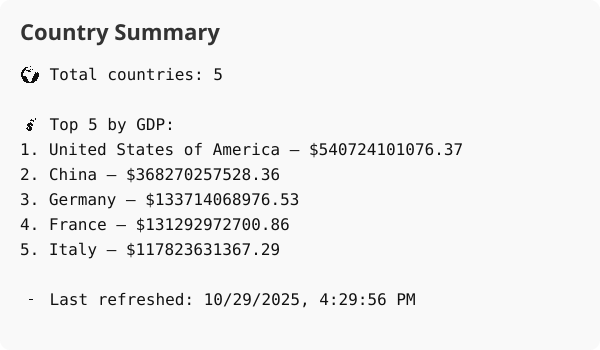
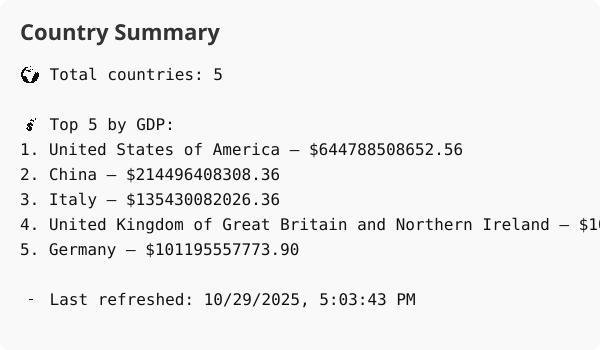
fix : batch update on /countries/refresh

diff --git a/src/db/dbQuery.ts b/src/db/dbQuery.ts
@@ -3,12 +3,20 @@ import db from ".";
 import { Country, CountryMapData, getCountriesQueryParams } from "../types";
 import generateSummaryImage from "../utils/generateSummaryImage";
 
-const insertCountry = async (country: Omit<CountryMapData, "id">) => {
+const sortFieldMap: Record<string, string> = {
+  gdp: "estimated_gdp",
+  population: "population",
+  exchange_rate: "exchange_rate",
+};
+
+const insertCountries = async (countries: Omit<CountryMapData, "id">[]) => {
   try {
+    if (!countries.length) return;
+
     const sql = `
-   INSERT INTO Countries
+      INSERT INTO Countries
         (name, capital, region, population, currency_code, exchange_rate, estimated_gdp, flag_url)
-      VALUES (?, ?, ?, ?, ?, ?, ?, ?)
+      VALUES ${countries.map(() => "(?, ?, ?, ?, ?, ?, ?, ?)").join(",")}
       ON DUPLICATE KEY UPDATE
         capital = VALUES(capital),
         region = VALUES(region),
@@ -16,11 +24,10 @@ const insertCountry = async (country: Omit<CountryMapData, "id">) => {
         currency_code = VALUES(currency_code),
         exchange_rate = VALUES(exchange_rate),
         estimated_gdp = VALUES(estimated_gdp),
-        flag_url = VALUES(flag_url),
-        last_refreshed_at = VALUES(last_refreshed_at);
-  `;
+        flag_url = VALUES(flag_url);
+    `;
 
-    const values = [
+    const values = countries.flatMap((country) => [
       country.name,
       country.capital,
       country.region,
@@ -29,20 +36,13 @@ const insertCountry = async (country: Omit<CountryMapData, "id">) => {
       country.exchange_rate ?? null,
       country.estimated_gdp ?? null,
       country.flag_url ?? null,
-      country.last_refreshed_at,
-    ];
+    ]);
 
     const [result] = await db.query(sql, values);
     return result;
   } catch (err) {
     throw err;
   }
-};
-
-const sortFieldMap: Record<string, string> = {
-  gdp: "estimated_gdp",
-  population: "population",
-  exchange_rate: "exchange_rate",
 };
 
 const getAllCountries = async (
@@ -160,11 +160,11 @@ const generateImage = async (): Promise<void> => {
 };
 
 export {
-  insertCountry,
   getAllCountries,
   getCountry,
   deleteCountry,
   getTableCount,
   getLastUpdate,
   generateImage,
+  insertCountries,
 };

diff --git a/src/routes/countriesRoute.ts b/src/routes/countriesRoute.ts
@@ -7,7 +7,7 @@ import {
   generateImage,
   getAllCountries,
   getCountry,
-  insertCountry,
+  insertCountries,
 } from "../db/dbQuery";
 import validate from "../middlewares/validate";
 import {
@@ -61,7 +61,7 @@ countriesRoute.get(
     const { name: countryName } = req.params;
     const country = await getCountry(countryName);
     if (country.length < 1) {
-      res.status(404).json({ message: "Country not found" });
+      res.status(404).json({ error: "Country not found" });
       return;
     }
     res.json(country[0]);
@@ -77,7 +77,7 @@ countriesRoute.delete(
       const query = await deleteCountry(countryName);
 
       if (query.affectedRows === 0) {
-        res.status(400).json({ message: "Country not found" });
+        res.status(404).json({ message: "Country not found" });
         return;
       }
 
@@ -98,6 +98,8 @@ countriesRoute.post(
         getAllCountriesData(),
         getCountriesExchangeRate(),
       ]);
+      const allCountriesToInsert: Omit<CountryMapData, "id">[] = [];
+
       const refreshDate = new Date().toISOString();
       countriesStatus.updateRefreshDate(refreshDate);
       for (const country of countriesData) {
@@ -118,7 +120,7 @@ countriesRoute.post(
             currency_code: null,
             flag_url: country.flag,
           };
-          await insertCountry(storedData);
+          allCountriesToInsert.push(storedData);
           continue;
         }
 
@@ -138,7 +140,7 @@ countriesRoute.post(
             currency_code: null,
             flag_url: country.flag,
           };
-          await insertCountry(storedData);
+          allCountriesToInsert.push(storedData);
 
           continue;
         }
@@ -158,8 +160,9 @@ countriesRoute.post(
           currency_code: country.currencies![0].code,
           flag_url: country.flag,
         };
-        await insertCountry(storedData);
+        allCountriesToInsert.push(storedData);
       }
+      await insertCountries(allCountriesToInsert);
       await generateImage();
 
       res.json({
